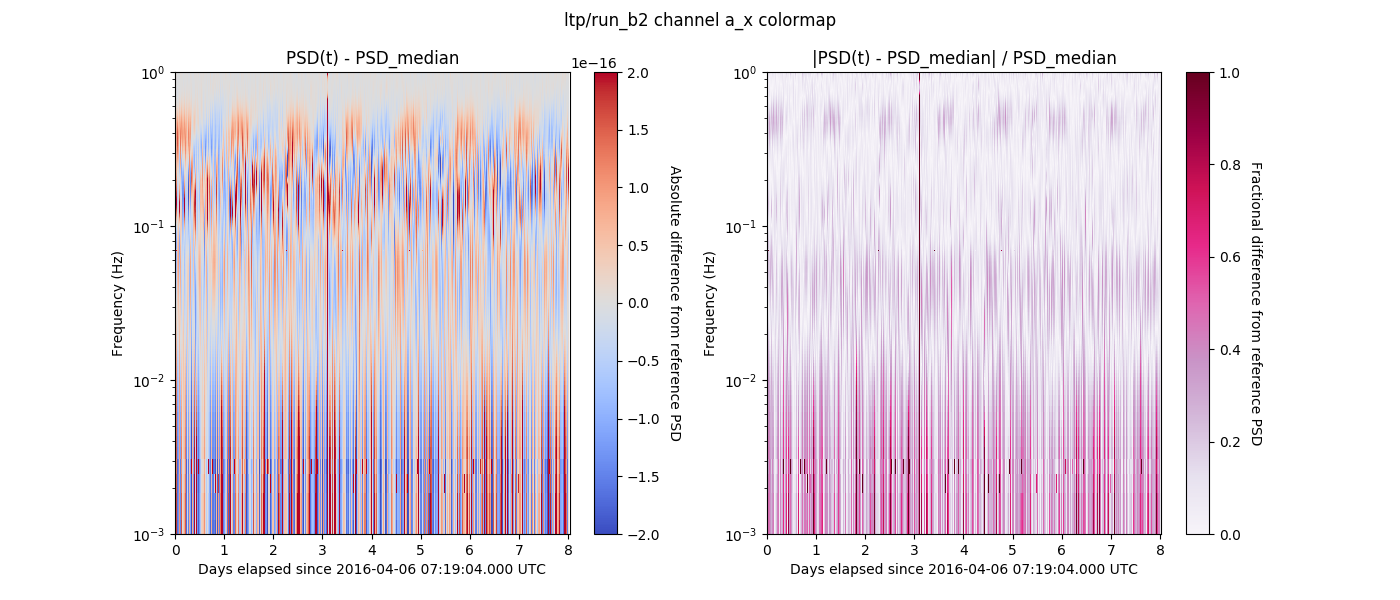
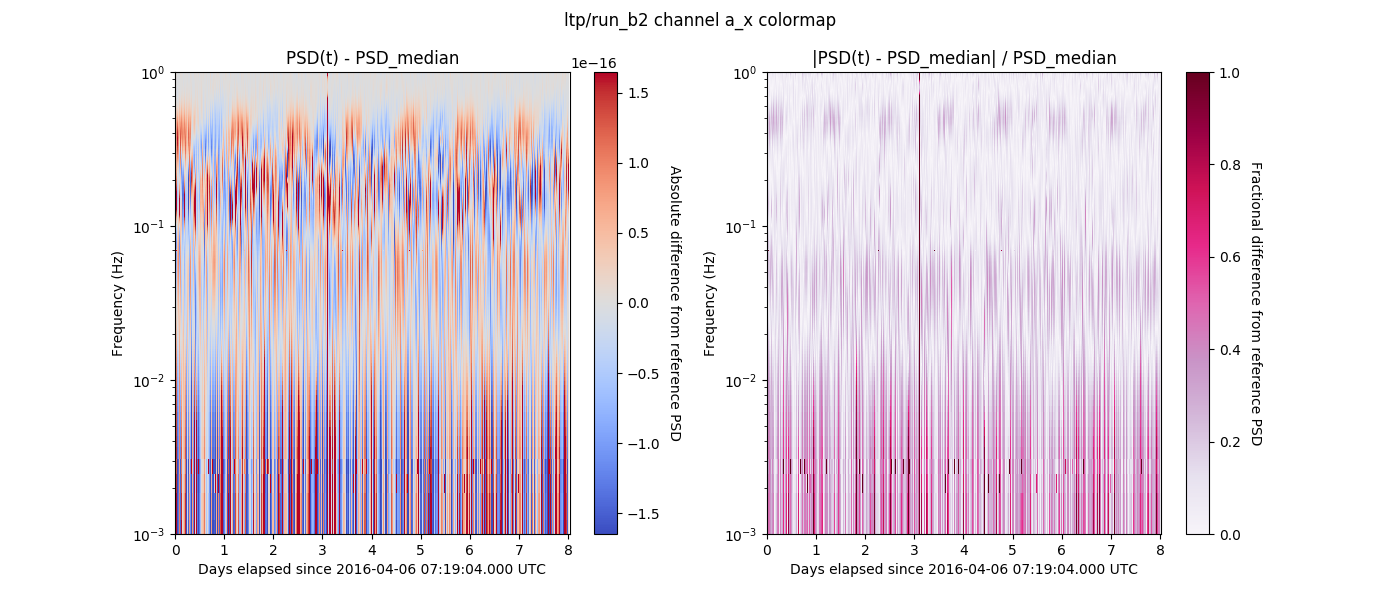
added auto scale for colormap, tweaked scale for f slices

diff --git a/plot.py b/plot.py
@@ -51,7 +51,7 @@ def shifted_cmap(cmap, start=0, midpoint=0.5, stop=1.0, name='shiftedcmap'):
     plt.register_cmap(cmap=newcmap)
     return newcmap
 
-def colormap(fig, ax, psd, cmap, vlims, cbar_label=None, center=None):
+def colormap(fig, ax, psd, cmap, vlims=None, cbar_label=None, center=None):
     '''
     Function to plot the colormap of a PSD with frequency on the y-axis and
     time on the x-axis.
@@ -69,13 +69,19 @@ def colormap(fig, ax, psd, cmap, vlims, cbar_label=None, center=None):
     start_date = tf.get_iso_date(int(psd.columns[0]))
     # Change columns from GPS time to days elapsed from start of run
     psd.columns = pd.Series(tf.get_days_elapsed(psd.columns), name='TIME')
-    if not cbar_label: cbar_label = 'Fractional difference from reference PSD'
+    # Auto colormap scale
+    if not vlims:
+        med = psd.median(axis=1).median()
+        std = psd.std(axis=1).median()
+        vlims = (med - 2 * std, med + 2 * std)
+    # Shift colormap to place 0 in the center if needed
     if center:
         cmap = shifted_cmap(
             cmap, 
             midpoint=(center-vlims[0])/(vlims[1]-vlims[0]), 
             name='shifted colormap'
         )
+    # Plot colormap
     im = ax.imshow(
         psd,
         cmap=cmap,
@@ -83,17 +89,17 @@ def colormap(fig, ax, psd, cmap, vlims, cbar_label=None, center=None):
         origin='lower',
         vmin=vlims[0],
         vmax=vlims[1],
-        extent=[
-            psd.columns[0],
-            psd.columns[-1],
-            0., 1.
-        ]
+        extent=[psd.columns[0], psd.columns[-1], 0., 1.]
     )
+    # Vertical scale
     ax.set_yscale('log')
     ax.set_ylim(bottom=1e-3, top=1.)
+    # Axis labels
     ax.set_xlabel('Days elapsed since ' + str(start_date) + ' UTC')
     ax.set_ylabel('Frequency (Hz)')
+    # Add and label colorbar
     cbar = fig.colorbar(im, ax=ax)
+    if not cbar_label: cbar_label = 'Fractional difference from reference PSD'
     cbar.set_label(cbar_label, labelpad=15, rotation=270)
 
 def all_psds(fig, ax, time_dir, channel, xlim=None, ylim=None):
@@ -152,9 +158,10 @@ def freq_slice(fig, ax, freq, summary, color='b', ylim=None):
         ax.set_ylim(ylim)
     else:
         med = fslice['MEDIAN'].median()
-        hi = fslice['CI_90_HI'].median() - med
-        lo = med - fslice['CI_90_LO'].median()
-        ax.set_ylim((max(med - 6 * lo, 0), med + 6 * hi))
+        std = fslice['MEDIAN'].std()
+        hi = (fslice['CI_90_HI'].quantile(0.9) - med)
+        lo = (med - fslice['CI_90_LO'].quantile(0.1))
+        ax.set_ylim((max(med - 3 * lo, 0), med + 3 * hi))
     # Axis labels
     ax.set_xlabel('Days elapsed since ' + str(start_date) + ' UTC')
     ax.set_ylabel('PSD')

diff --git a/main.py b/main.py
@@ -9,7 +9,7 @@ import os
 
 # Parameters
 run = 'ltp/run_b2'
-channel = 'a_x'
+channel = 'a_y'
 
 # Summary file locations
 summary_dir = os.path.join('summaries', run)
@@ -39,7 +39,7 @@ axs[0].title.set_text('PSD(t) - PSD_median')
 plot.colormap(fig, axs[0], 
     unstacked.sub(median, axis=0), 
     cmap=cm.get_cmap('coolwarm'),
-    vlims=(-2e-16, 2e-16),
+#    vlims=(-2e-16, 2e-16),
     center=0.0,
     cbar_label='Absolute difference from reference PSD'
 )
